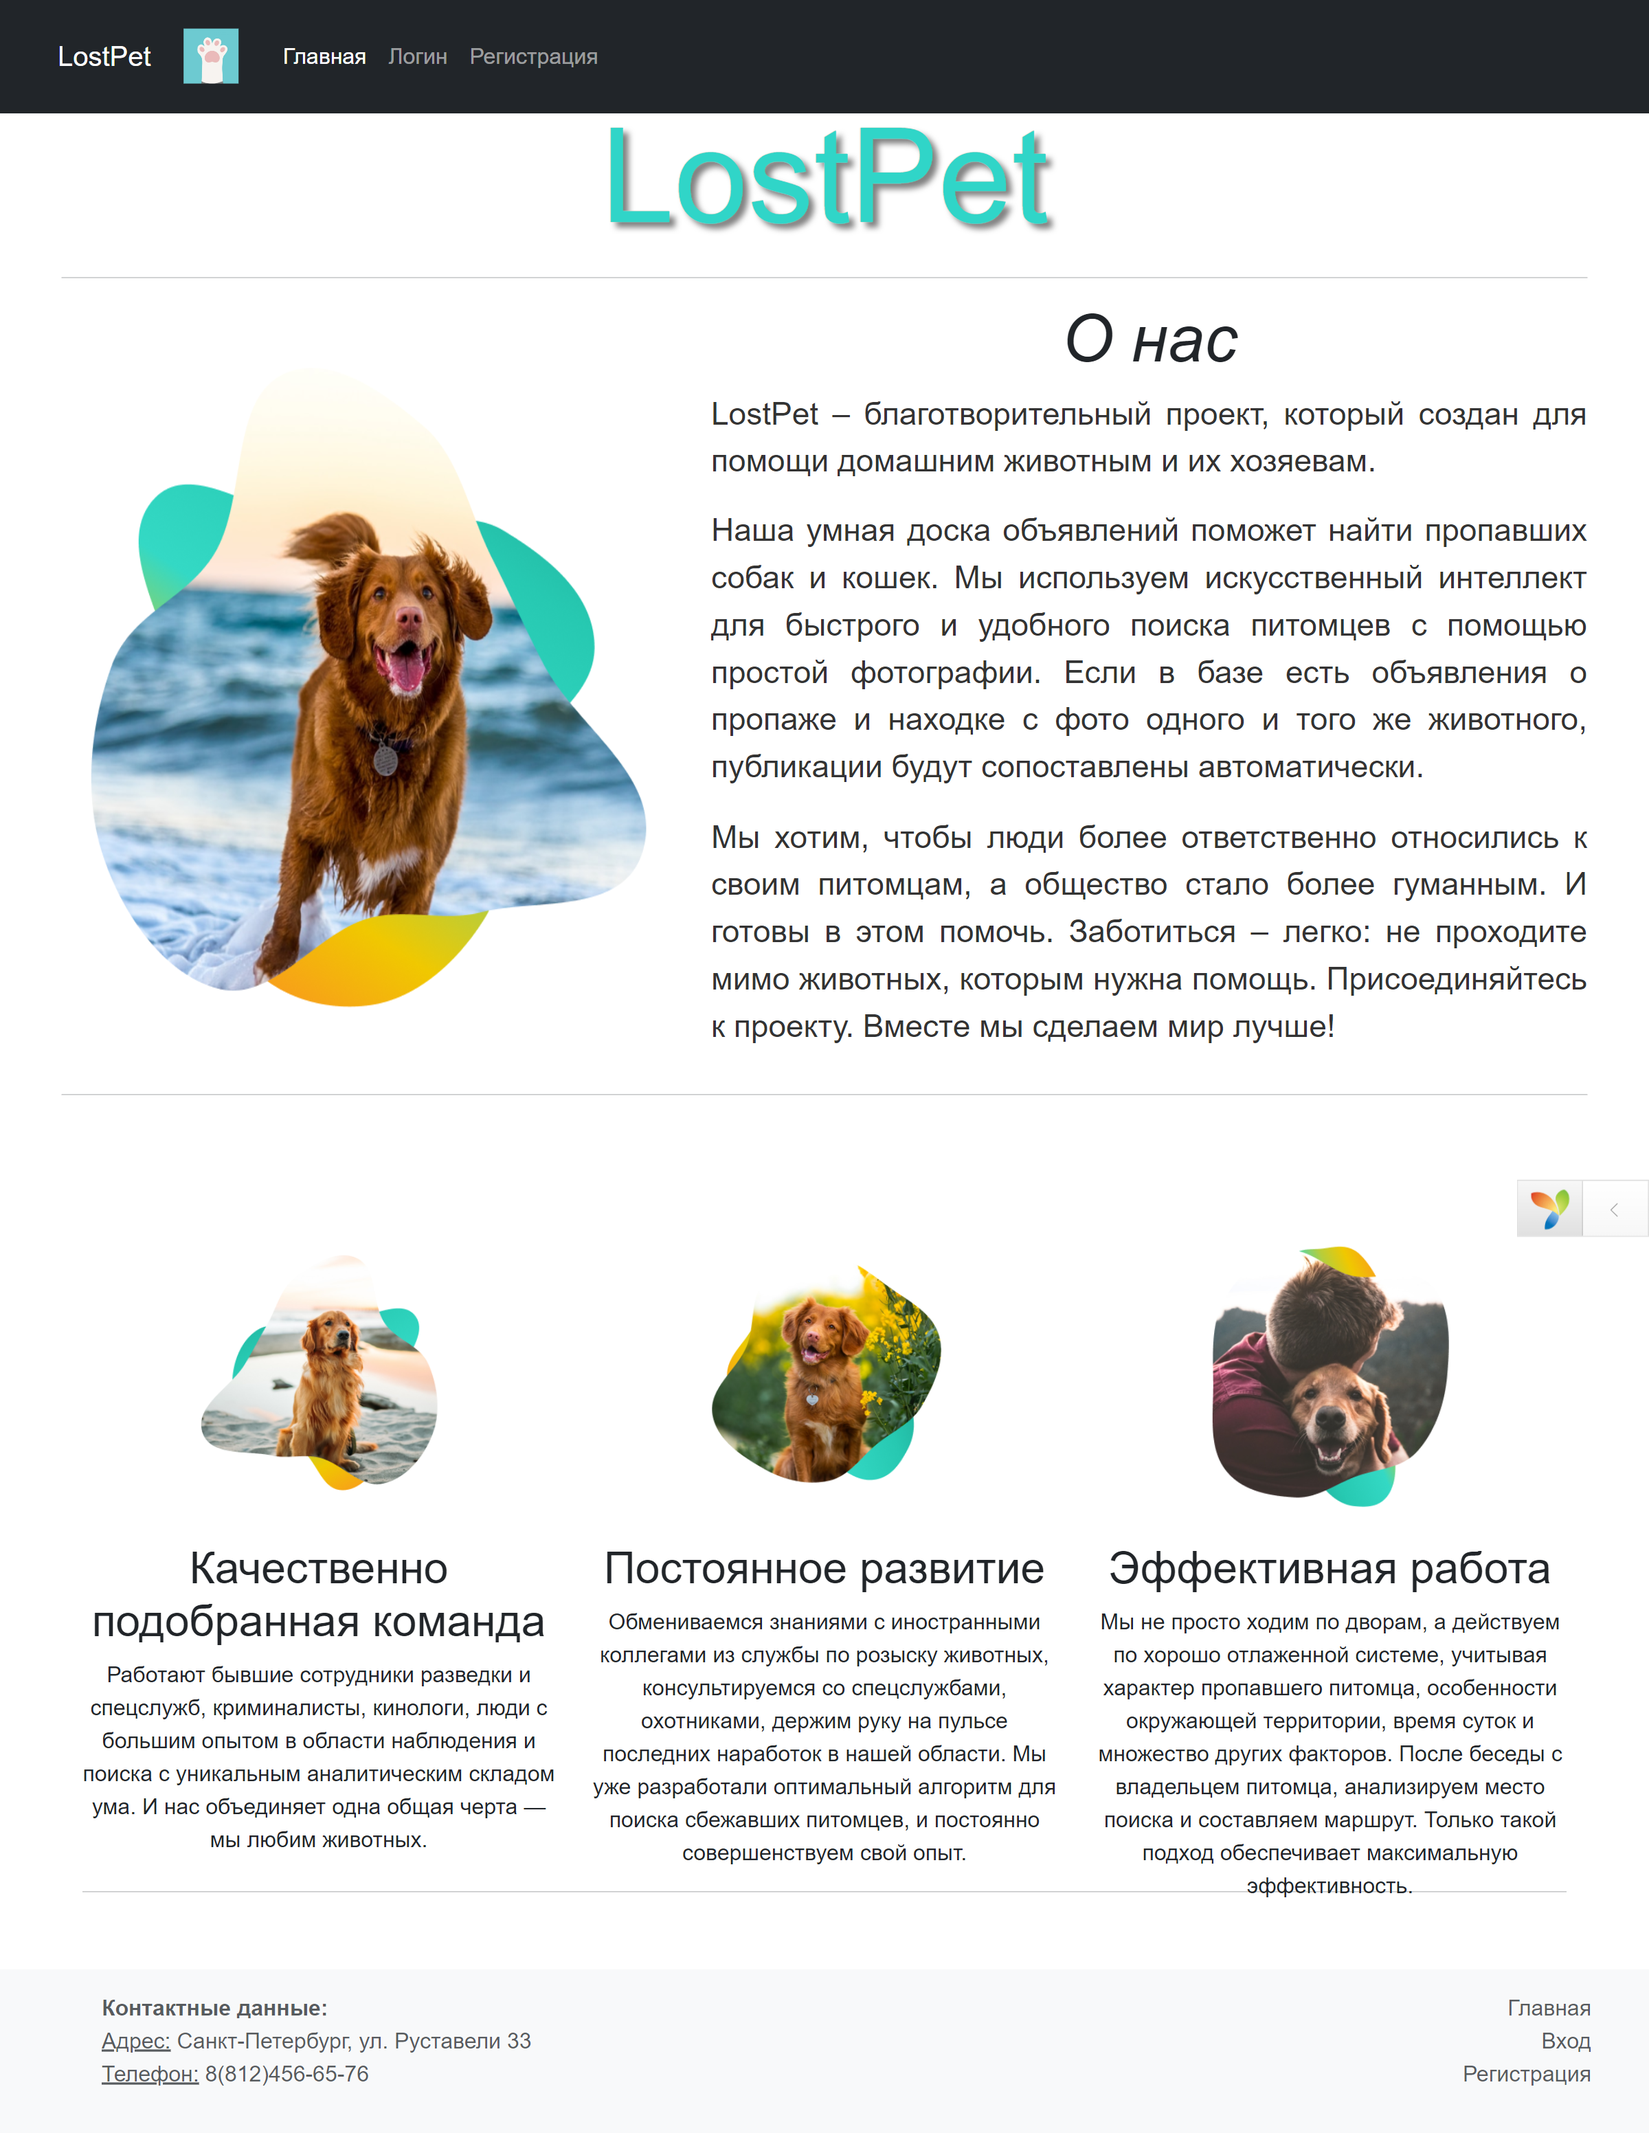
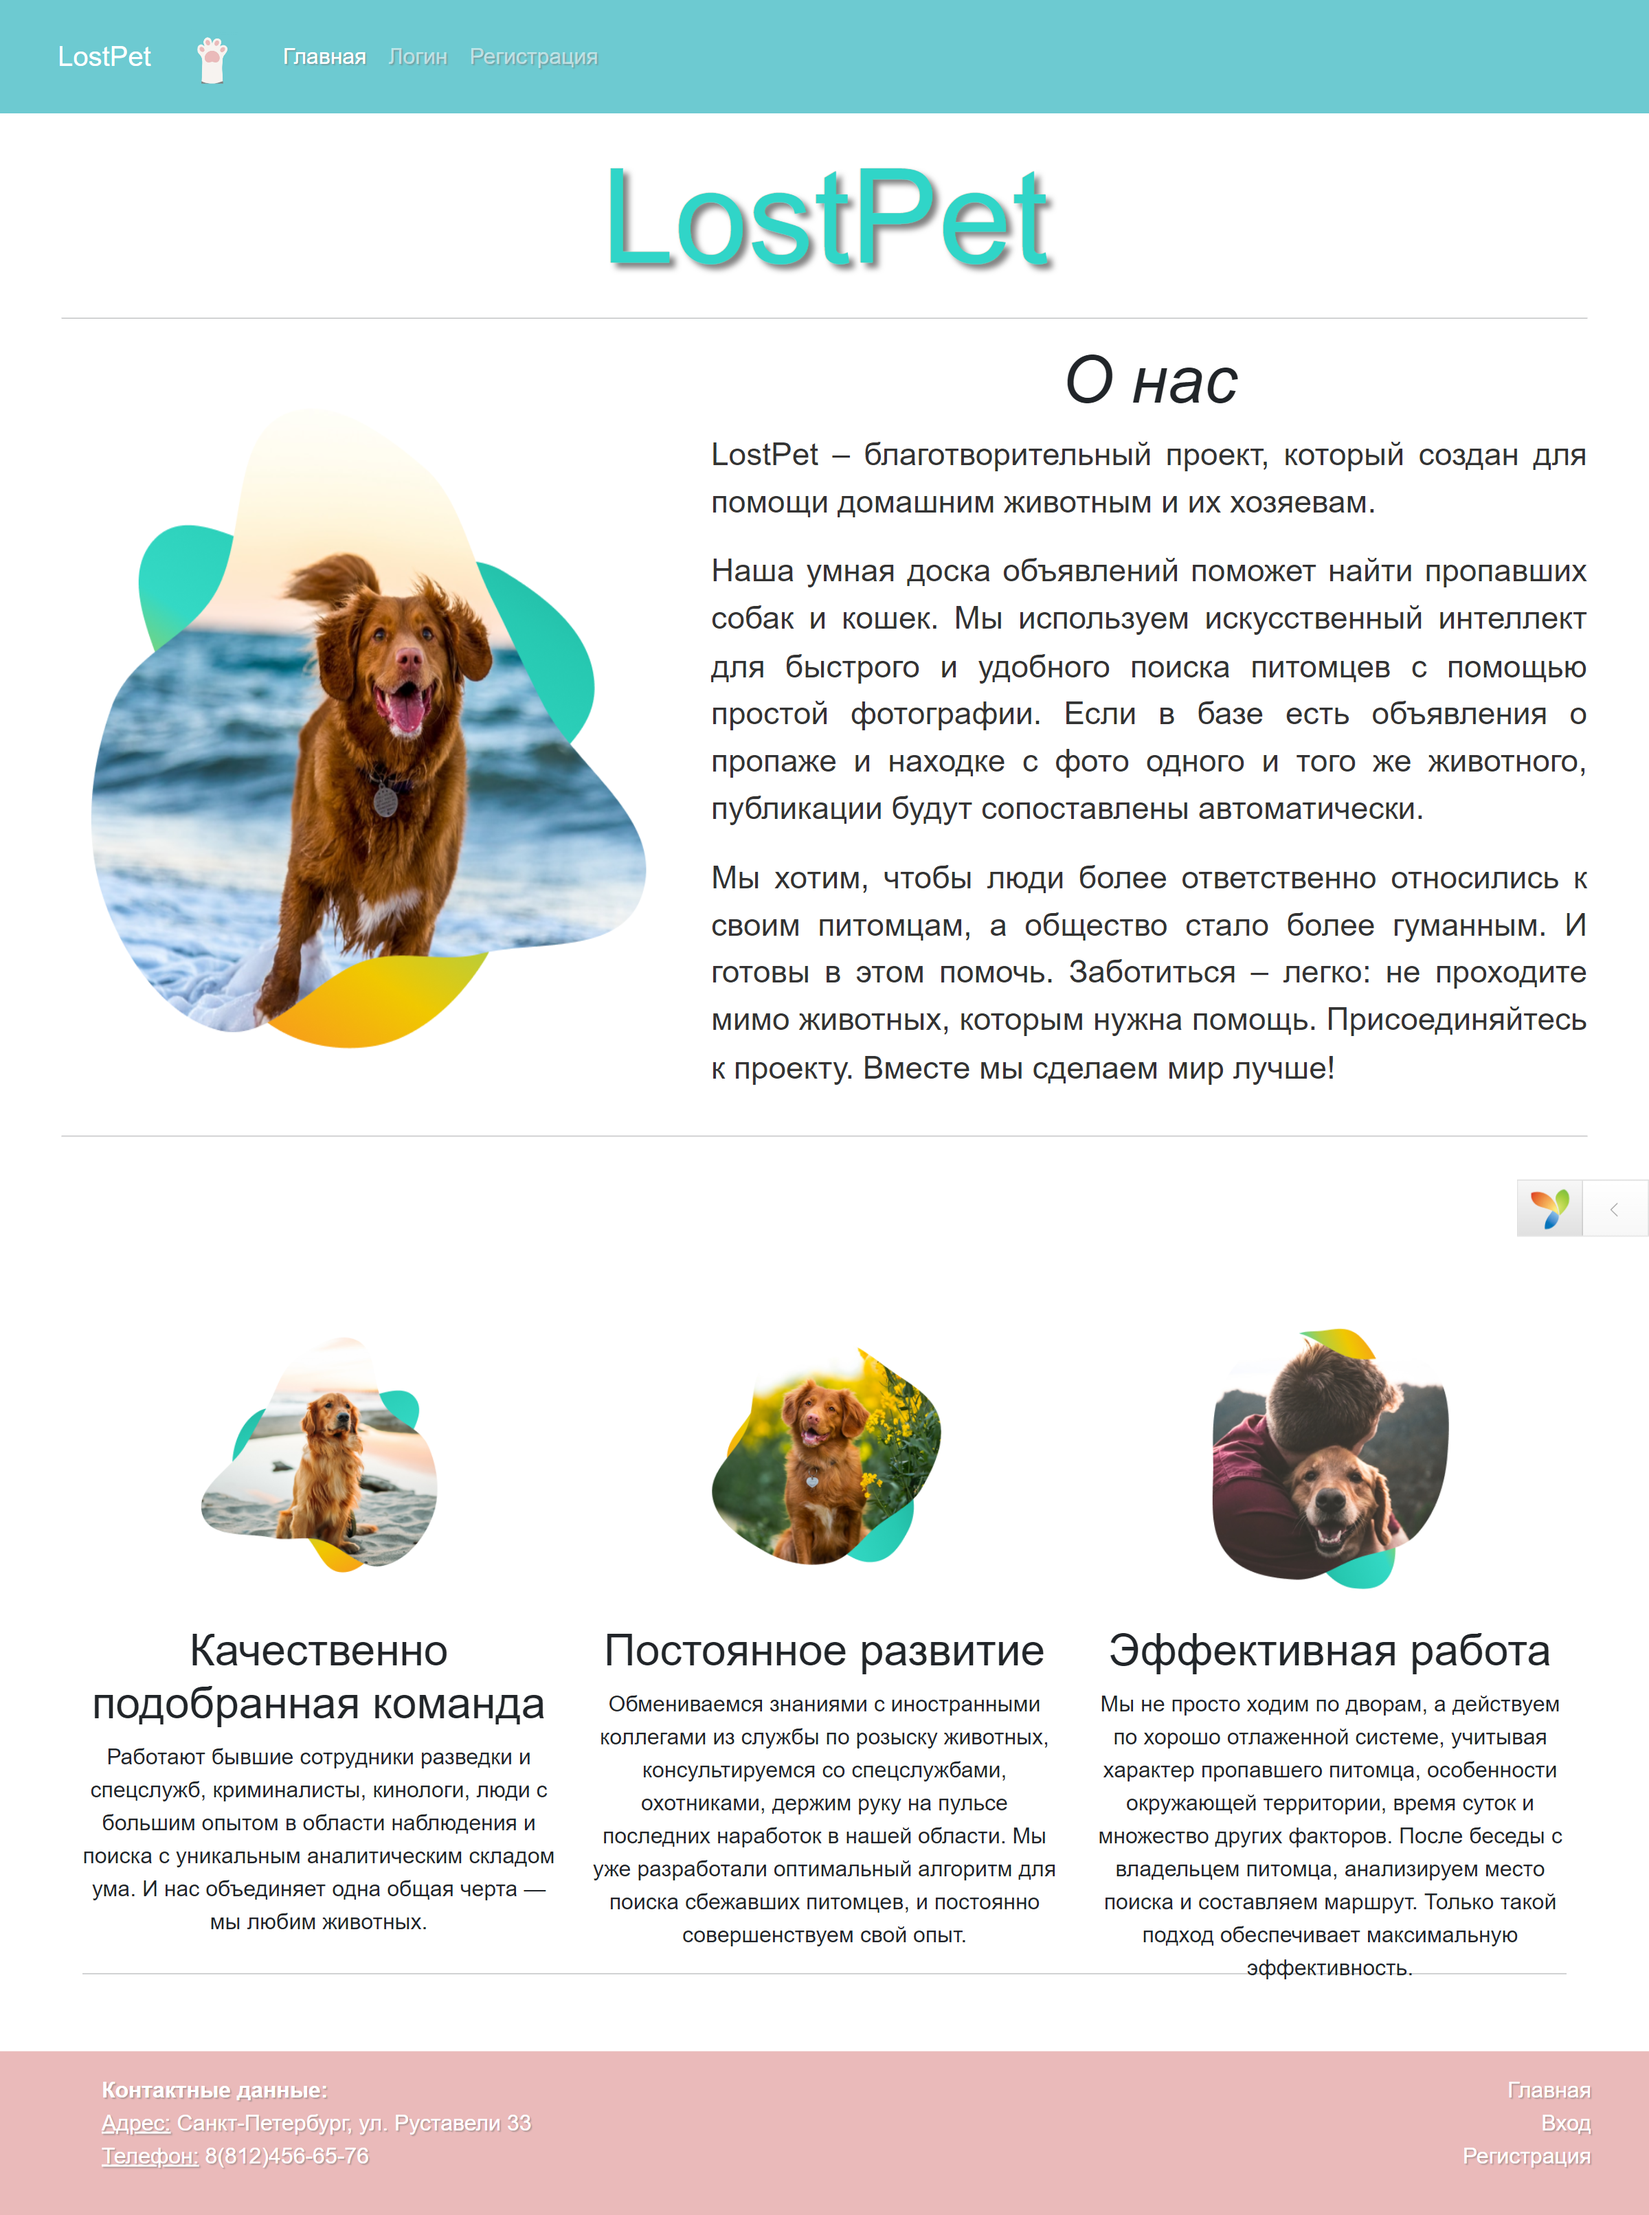
Доработки дизайна

diff --git a/web/css/style.css b/web/css/style.css
@@ -36,19 +36,6 @@ body {
 .h2 {
   font-size: 3em;
 }
-button {
-  background-color: #000;
-  color: #fff;
-  padding: 10px 20px;
-  border: none;
-  border-radius: 10px;
-  text-transform: uppercase;
-  cursor: pointer;
-  transition: background-color 0.5s;
-}
-button:hover {
-  background-color: #263e6b;
-}
 .title {
   font-family: 'Roboto', sans-serif;
   color:black;
@@ -59,4 +46,54 @@ button:hover {
   font-size: 23px;
   font-family: Arial, sans-serif;
   color: #333;
+}
+main > .container {
+  padding: 100px 15px 20px;
+}
+.bg-dark {
+  background-color: rgba(109, 202, 209, 1) !important;
+}
+.bg-light {
+  background-color: rgba(234, 186, 186, 1) !important;
+}
+.btn-primary {
+  color: rgb(255, 255, 255);
+  background-color: rgba(109, 202, 209, 1);
+  border-color: rgba(109, 202, 209, 1);
+}
+.btn-primary:hover, .btn-primary:active, .btn-primary:focus {
+  color: rgb(255, 255, 255)  !important;
+  background-color: rgba(234, 186, 186, 1)  !important;
+  border-color: rgba(234, 186, 186, 1)  !important;
+  box-shadow: 0 0 8px rgba(234, 186, 186, 1)  !important;
+}
+.form-check-input:checked {
+  background-color: rgba(109, 202, 209, 1);
+  border-color: rgba(109, 202, 209, 1);
+}
+.btn-success {
+  color: rgb(255, 255, 255);
+  background-color: rgba(234, 186, 186, 1) ;
+  border-color: rgba(234, 186, 186, 1) ;
+}
+.btn-success:hover, .btn-success:active, .btn-success:focus {
+  color: rgb(255, 255, 255) !important;
+  background-color: rgba(109, 202, 209, 1) !important;
+  border-color: rgba(109, 202, 209, 1) !important;
+  box-shadow: 0 0 8px rgba(109, 202, 209, 1) !important;
+}
+a {
+  color: rgba(109, 202, 209, 1) ;
+  text-decoration: underline;
+}
+.btn-link {
+  color: rgba(234, 186, 186, 1);
+}
+.btn-link:hover {
+  color: rgba(109, 202, 209, 1) ;
+  box-shadow: 0 0 8px rgba(109, 202, 209, 1)
+}
+.nav-item {
+  color:#ffffff;
+  text-shadow: 1px 1px 1px rgba(113, 113, 113, 0.5);
 }

diff --git a/views/layouts/main.php b/views/layouts/main.php
@@ -81,7 +81,7 @@ $logo = Html::img('@web/images/log.png', ['alt' => 'Логотип', 'class' => 
 
 <footer id="footer" class="mt-auto py-3 bg-light">
     <div class="container">
-        <div class="row text-muted">
+        <div class="row text-muted align-items-center">
             <div class="col-md-6 text-center text-md-start">
             <ul>    
                 <li class="nav-item"><b>Контактные данные:</b></li>
